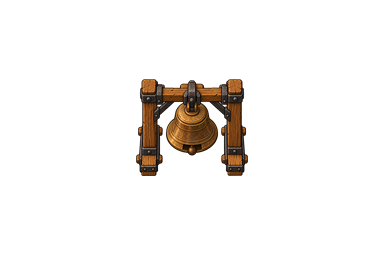
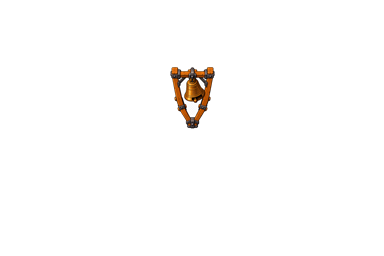
Props.

Changed region(s): [[0.3438, 0.25, 0.6562, 0.6875]]

diff --git a/environments/three_branches/renderer/props-layer.ts b/environments/three_branches/renderer/props-layer.ts
@@ -4,7 +4,7 @@ import { THREE_BRANCHES_ASSET_CATALOG } from './assets.js'
 import { emissiveSpec, hasPropEffect, propEffectFrames, propEffectSpec } from './effects.js'
 import { CATALOG } from './overlay.js'
 import { HEARTHSIDE_STYLE, PALETTE } from './presentation.js'
-import { isShippedPropType, propTreatment, sceneryFrame } from './props-art.js'
+import { isShippedPropType, propFoundationFrame, propTreatment, sceneryFrame } from './props-art.js'
 import { frameRectangle } from './tint.js'
 
 import type { FrameScene, StaticDrawable, StaticScene } from './types.js'
@@ -12,6 +12,7 @@ import type { FrameScene, StaticDrawable, StaticScene } from './types.js'
 const PROP_SCALE = 0.14
 const SCENERY_SCALE = 0.25
 const EFFECT_SCALE = 0.25
+const FIXED_MONUMENT_TYPES = new Set(['pump', 'bell'])
 
 /** Pages that become artwork for props, scenery, and their effects. */
 export interface PropAtlasTextures {
@@ -40,6 +41,7 @@ interface PropNode {
   root: Container
   fallback: Graphics
   shadow: Sprite
+  foundation: Sprite
   still: Sprite
   effect: Sprite
   emissive: Sprite
@@ -77,7 +79,12 @@ export function createPropLayer(
   for (const item of scene.props) {
     const node = createPropNode(item)
     nodes.set(item.id, node)
-    propLayer.addChild(node.root)
+    if (isFixedMonument(item)) {
+      upperLayer.addChild(node.root)
+      node.shadow.position.set(centerX(item), centerY(item))
+      node.foundation.position.set(centerX(item), centerY(item))
+      propLayer.addChild(node.shadow, node.foundation)
+    } else propLayer.addChild(node.root)
     upperLayer.addChild(node.effect)
     emissiveLayer.addChild(node.emissive)
   }
@@ -92,6 +99,9 @@ export function createPropLayer(
     node.fallback.visible = !shipped
     node.shadow.visible = shipped
     node.shadow.texture = shipped ? texture(art.effects, 'characterShadow') : Texture.EMPTY
+    const foundationFrame = propFoundationFrame(node.item.type)
+    node.foundation.visible = shipped && foundationFrame !== null
+    node.foundation.texture = foundationFrame === null ? Texture.EMPTY : texture(art.props, foundationFrame)
     node.still.visible = shipped
     node.still.texture = shipped ? texture(art.props, propTreatment(node.item.type, state).frame) : Texture.EMPTY
   }
@@ -117,7 +127,7 @@ export function createPropLayer(
       const tick = typeof value === 'number' ? value : value.presentationTick
       let active = false
       for (const node of nodes.values()) {
-        node.root.rotation = facing(node.item.facing)
+        node.root.rotation = visualFacing(node.item)
         if (!isShippedPropType(node.item.type)) {
           node.effect.visible = false
           node.emissive.visible = false
@@ -134,8 +144,8 @@ export function createPropLayer(
           node.effect.tint = HEARTHSIDE_STYLE.palette[effect.tint]
           node.effect.alpha = effect.alpha
           node.effect.scale.set(EFFECT_SCALE * effect.scale)
-          node.effect.position.set(centerX(node.item), centerY(node.item) + effect.offsetY)
-          node.effect.rotation = facing(node.item.facing) + effect.rotation
+          node.effect.position.set(centerX(node.item) + effect.offsetX, centerY(node.item) + effect.offsetY)
+          node.effect.rotation = visualFacing(node.item) + effect.rotation
         }
         if (emissive !== null) {
           node.emissive.texture = texture(art.effects, emissive.frame)
@@ -143,7 +153,7 @@ export function createPropLayer(
           node.emissive.alpha = emissive.alpha
           node.emissive.scale.set(EFFECT_SCALE * emissive.scale)
           node.emissive.position.set(centerX(node.item), centerY(node.item))
-          node.emissive.rotation = facing(node.item.facing)
+          node.emissive.rotation = visualFacing(node.item)
         }
       }
       return active
@@ -155,7 +165,7 @@ export function createPropLayer(
       if (item === undefined) return
       const stroke = { color: HEARTHSIDE_STYLE.palette.gilt, width: 2 }
       if (item.shape === 'circle') {
-        highlightNode.circle(centerX(item), centerY(item), Math.min(item.rect.width, item.rect.height) / 2 + 2).stroke(stroke)
+        highlightNode.circle(centerX(item), centerY(item), (Math.min(item.rect.width, item.rect.height) / 2) * item.collisionScale + 2).stroke(stroke)
       } else {
         highlightNode.rect(item.rect.x - 2, item.rect.y - 2, item.rect.width + 4, item.rect.height + 4).stroke(stroke)
       }
@@ -173,16 +183,21 @@ function createSceneryNode(item: StaticDrawable): Container {
 function createPropNode(item: StaticDrawable): PropNode {
   const root = new Container({ label: `prop:${item.id}` })
   root.position.set(centerX(item), centerY(item))
-  root.rotation = facing(item.facing)
+  root.rotation = visualFacing(item)
   const shadow = propShadow(item)
   const fallbackNode = fallback(item, true)
+  const foundation = propSprite('prop-foundation', Texture.EMPTY)
+  foundation.visible = false
   const still = propSprite('prop-still', Texture.EMPTY)
-  root.addChild(shadow, fallbackNode, still)
+  if (!isFixedMonument(item)) root.addChild(shadow)
+  root.addChild(fallbackNode, still)
   const effect = sprite(`prop-effect:${item.id}`, Texture.EMPTY, EFFECT_SCALE)
   const emissive = sprite(`prop-emissive:${item.id}`, Texture.EMPTY, EFFECT_SCALE)
+  effect.rotation = visualFacing(item)
+  emissive.rotation = visualFacing(item)
   effect.visible = false
   emissive.visible = false
-  return { item, root, fallback: fallbackNode, shadow, still, effect, emissive, state: null }
+  return { item, root, fallback: fallbackNode, shadow, foundation, still, effect, emissive, state: null }
 }
 
 function installScenery(layer: Container, item: StaticDrawable, art: PropArt): void {
@@ -209,7 +224,8 @@ function fallback(item: StaticDrawable, interactive: boolean): Graphics {
 function propShadow(item: StaticDrawable): Sprite {
   const shadow = sprite('prop-contact-shadow', Texture.EMPTY, 1)
   const { width, height } = localFootprint(item)
-  shadow.scale.set((width * 0.9) / 192, (height * 0.6) / 128)
+  const collisionScale = isFixedMonument(item) ? item.collisionScale : 1
+  shadow.scale.set((width * collisionScale * 0.9) / 192, (height * collisionScale * 0.6) / 128)
   shadow.tint = HEARTHSIDE_STYLE.palette.backdrop
   shadow.alpha = 0.25
   shadow.visible = false
@@ -236,6 +252,8 @@ function propSprite(label: string, frame: Texture): Sprite {
 
 function centerX(item: StaticDrawable): number { return item.rect.x + item.rect.width / 2 }
 function centerY(item: StaticDrawable): number { return item.rect.y + item.rect.height / 2 }
+function isFixedMonument(item: StaticDrawable): boolean { return FIXED_MONUMENT_TYPES.has(item.type) }
+function visualFacing(item: StaticDrawable): number { return isFixedMonument(item) ? 0 : facing(item.facing) }
 function facing(value: string | undefined): number {
   return ({ north: 0, east: Math.PI / 2, south: Math.PI, west: -Math.PI / 2 } as Record<string, number>)[value ?? 'north'] ?? 0
 }
@@ -265,6 +283,8 @@ function preflightArt(art: PropArt): void {
   }
   for (const prop of CATALOG.props) {
     if (!isShippedPropType(prop.token)) continue
+    const foundationFrame = propFoundationFrame(prop.token)
+    if (foundationFrame !== null) texture(art.props, foundationFrame)
     for (const state of prop.states) {
       texture(art.props, propTreatment(prop.token, state).frame)
       for (const frame of propEffectFrames(prop.token, state)) texture(art.effects, frame)

diff --git a/environments/three_branches/renderer/effects.ts b/environments/three_branches/renderer/effects.ts
@@ -8,6 +8,7 @@ export interface PropEffectSpec {
   tint: HearthsidePaletteKey
   alpha: number
   scale: number
+  offsetX: number
   offsetY: number
   rotation: number
   phase: number
@@ -49,15 +50,15 @@ export function propEffectSpec(
   const wave = Math.sin((frameClock / frames.length) * Math.PI * 2)
   switch (effect) {
     case 'lantern':
-      return { frame, tint: 'gilt', alpha: 0.7 + wave * 0.16, scale: 0.92 + wave * 0.08, offsetY: 0, rotation: 0, phase }
+      return { frame, tint: 'gilt', alpha: 0.7 + wave * 0.16, scale: 0.92 + wave * 0.08, offsetX: 0, offsetY: 0, rotation: 0, phase }
     case 'hearth':
-      return { frame, tint: 'cinnabar', alpha: 0.82 + wave * 0.12, scale: 0.9 + wave * 0.1, offsetY: 1 - wave, rotation: 0, phase }
+      return { frame, tint: 'cinnabar', alpha: 0.82 + wave * 0.12, scale: 0.9 + wave * 0.1, offsetX: 0, offsetY: 1 - wave, rotation: 0, phase }
     case 'shrine':
-      return { frame, tint: 'violet', alpha: 0.45 + wave * 0.16, scale: 0.86 + wave * 0.1, offsetY: -4 - wave * 3, rotation: wave * 0.08, phase }
+      return { frame, tint: 'violet', alpha: 0.45 + wave * 0.16, scale: 0.86 + wave * 0.1, offsetX: 0, offsetY: -4 - wave * 3, rotation: wave * 0.08, phase }
     case 'pump':
-      return { frame, tint: 'water', alpha: 0.72 + wave * 0.14, scale: 0.94 + wave * 0.06, offsetY: wave * 2, rotation: 0, phase }
+      return { frame, tint: 'water', alpha: 0.72 + wave * 0.14, scale: 0.94 + wave * 0.06, offsetX: 2.9, offsetY: -4 + wave * 2, rotation: 0, phase }
     case 'bell':
-      return { frame, tint: 'gilt', alpha: 0.58 + wave * 0.2, scale: 1, offsetY: 0, rotation: wave * 0.12, phase }
+      return { frame, tint: 'gilt', alpha: 0.58 + wave * 0.2, scale: 1, offsetX: 0, offsetY: -5, rotation: wave * 0.12, phase }
   }
   throw new Error('Three Branches prop effect is unsupported.')
 }

diff --git a/environments/three_branches/renderer/scene.ts b/environments/three_branches/renderer/scene.ts
@@ -60,18 +60,21 @@ export function buildStaticScene(village: VillageStatic): StaticScene {
     drawableFor(village, buildingByType, item, () => ({
       label: labelFor(item.type),
       shape: 'box',
+      collisionScale: 1,
     })),
   )
   const props = village.props.map((item) =>
     drawableFor(village, propByType, item, (kind) => ({
       label: labelFor(kind.activity),
       shape: shapeOf(kind.shape),
+      collisionScale: kind.collision_scale,
     })),
   )
   const scenery = village.scenery.map((item, index) =>
     drawableFor(village, sceneryByType, { ...item, id: `scenery:${index}` }, (kind) => ({
       label: labelFor(item.type),
       shape: shapeOf(kind.shape),
+      collisionScale: 1,
     })),
   )
   return {
@@ -170,7 +173,7 @@ function drawableFor<TKind extends CatalogFootprint>(
   village: VillageStatic,
   catalog: Readonly<Record<string, TKind>>,
   placement: DrawablePlacement,
-  describe: (kind: TKind) => Pick<StaticDrawable, 'label' | 'shape'>,
+  describe: (kind: TKind) => Pick<StaticDrawable, 'label' | 'shape' | 'collisionScale'>,
 ): StaticDrawable {
   const kind = catalog[placement.type]
   if (kind === undefined) throw new Error(`Unknown catalog type ${placement.type}.`)

diff --git a/environments/three_branches/renderer/assets.ts b/environments/three_branches/renderer/assets.ts
@@ -142,6 +142,7 @@ export const PROPS_ATLAS_FRAME_NAMES = [
   'pumpIdle',
   'bellRinging',
   'bellSilent',
+  'bellFoundation',
 ] as const
 
 export const SCENERY_ATLAS_FRAME_NAMES = ['pineA', 'pineB', 'pineC', 'marketCrate'] as const
@@ -236,7 +237,7 @@ export const THREE_BRANCHES_ASSET_CATALOG = [
     height: 1536,
     tintable: false,
     format: 'full-color',
-    consumer: 'complete interactive prop state stills, with separate effects and emissives',
+    consumer: 'complete interactive prop state stills and the fixed bell foundation, with separate effects and emissives',
     frames: {
       width: 384,
       height: 256,
@@ -362,6 +363,7 @@ function flatFramePaths(names: readonly string[]): readonly string[] {
 }
 
 function propsFramePath(name: string): string {
+  if (name === 'bellFoundation') return 'bell/foundation.png'
   for (const prop of catalogDocument.props) {
     const type = prop.token.replace(/_([a-z])/g, (_, letter: string) => letter.toUpperCase())
     const state = prop.states.find((value) => `${type}${value[0]?.toUpperCase()}${value.slice(1)}` === name)

diff --git a/environments/three_branches/renderer/props-art.ts b/environments/three_branches/renderer/props-art.ts
@@ -80,6 +80,11 @@ export function propTreatment(type: string, state: string): PropTreatment {
   return treatment
 }
 
+/** Resolve a state-independent foundation frame for a fixed monument. */
+export function propFoundationFrame(type: string): string | null {
+  return type === 'bell' ? 'bellFoundation' : null
+}
+
 /** Select one fixed scenery frame from a catalog type and stable placement id. */
 export function sceneryFrame(type: string, id: string): string {
   if (type === 'crate') return 'marketCrate'

diff --git a/environments/three_branches/renderer/collision.ts b/environments/three_branches/renderer/collision.ts
@@ -38,7 +38,7 @@ export function staticCollision(scene: StaticScene): readonly CollisionShape[] {
         id: item.id,
         kind: 'circle',
         center: { x: item.rect.x + item.rect.width / 2, y: item.rect.y + item.rect.height / 2 },
-        radius: Math.min(item.rect.width, item.rect.height) / 2,
+        radius: (Math.min(item.rect.width, item.rect.height) / 2) * item.collisionScale,
         label: item.label,
         group: 'object',
       })

diff --git a/environments/three_branches/renderer/types.ts b/environments/three_branches/renderer/types.ts
@@ -150,6 +150,8 @@ export interface StaticDrawable {
   label: string
   /** Catalog collision shape. */
   shape: 'box' | 'circle'
+  /** Catalog collision diameter fraction for circular props. */
+  collisionScale: number
   /** Config-derived renderer extent. */
   rect: WorldRect
   /** Optional cardinal presentation direction. */

diff --git a/environments/three_branches/catalog.py b/environments/three_branches/catalog.py
@@ -5,11 +5,12 @@ from __future__ import annotations
 import json
 from dataclasses import dataclass
 from importlib import resources
+from math import isfinite
 from types import MappingProxyType
 from typing import Any
 
 from .rules import GROUND_BY_CODE
-from .validation import mapping, positive_int, token
+from .validation import mapping, positive_int, positive_number, token
 
 _SHAPES = {"box", "circle"}
 _MOVING_TRANSITIONS = {"toggle", "occupancy", "timed"}
@@ -32,6 +33,7 @@ class PropType:
     width: int
     height: int
     shape: str
+    collision_scale: float
     activity: str
     states: tuple[str, ...]
     start: str
@@ -103,6 +105,7 @@ def load(data: Any) -> Catalog:
             positive_int(entry["width"], "catalog.prop.width"),
             positive_int(entry["height"], "catalog.prop.height"),
             entry["shape"],
+            _collision_scale(entry["collision_scale"]),
             token(entry["activity"], "catalog.prop.activity"),
             tuple(token(state, "catalog.prop.states", max_length=9) for state in entry["states"]),
             token(entry["start"], "catalog.prop.start", max_length=9),
@@ -118,6 +121,7 @@ def load(data: Any) -> Catalog:
                     "width",
                     "height",
                     "shape",
+                    "collision_scale",
                     "activity",
                     "states",
                     "start",
@@ -168,6 +172,13 @@ def load(data: Any) -> Catalog:
     if not {"i", "d", "x"} <= set(GROUND_BY_CODE):
         raise ValueError("catalog needs the interior, doorway, and wall ground codes from the rules")
     return Catalog(buildings, props, scenery)
+
+
+def _collision_scale(value: Any) -> float:
+    scale = positive_number(value, "catalog.prop.collision_scale")
+    if not isfinite(scale) or scale > 1:
+        raise ValueError("catalog.prop.collision_scale must be finite and no greater than one")
+    return scale
 
 
 CATALOG = load(json.loads(resources.files(__package__).joinpath("catalog.json").read_text(encoding="utf-8")))

diff --git a/environments/three_branches/template/sandbox/village/_model.py b/environments/three_branches/template/sandbox/village/_model.py
@@ -173,7 +173,11 @@ def _shape(item: PlacementFingerprint, kind: Mapping[str, object], cell_size: fl
     width, height = float(kind["width"]), float(kind["height"])
     if item[3]:
         width, height = height, width
-    return Shape(str(kind["shape"]), item[1] * cell_size, item[2] * cell_size, width, height)
+    x, y = item[1] * cell_size, item[2] * cell_size
+    if kind["shape"] != "circle":
+        return Shape("box", x, y, width, height)
+    diameter = min(width, height) * float(kind.get("collision_scale", 1.0))
+    return Shape("circle", x + (width - diameter) / 2, y + (height - diameter) / 2, diameter, diameter)
 
 
 def _collision_buckets(

diff --git a/environments/three_branches/layout.py b/environments/three_branches/layout.py
@@ -151,7 +151,8 @@ class Layout:
         x, y = item.cell
         if source.shape == "box":
             return Rect(float(x), float(y), float(width), float(height))
-        return Circle(x + width / 2, y + height / 2, min(width, height) / 2)
+        scale = source.collision_scale if isinstance(item, PlacedProp) else 1.0
+        return Circle(x + width / 2, y + height / 2, min(width, height) / 2 * scale)
 
     def doorway(self, building_id: str) -> tuple[Cell, ...]:
         building = next((item for item in self.buildings if item.id == building_id), None)

diff --git a/environments/three_branches/generation/accessories.py b/environments/three_branches/generation/accessories.py
@@ -500,7 +500,8 @@ def _shape_for(item: PlacedProp | Scenery) -> Rect | Circle:
     x, y = item.cell
     if source.shape == "box":
         return Rect(float(x), float(y), float(width), float(height))
-    return Circle(x + width / 2, y + height / 2, min(width, height) / 2)
+    scale = source.collision_scale if isinstance(item, PlacedProp) else 1.0
+    return Circle(x + width / 2, y + height / 2, min(width, height) / 2 * scale)
 
 
 def _touches(shape: Rect | Circle, point: Point, radius: float) -> bool:

diff --git a/plans/days-at-three-branches/stages/5-1-art-style.md b/plans/days-at-three-branches/stages/5-1-art-style.md
@@ -75,7 +75,7 @@ Build characters from shared north-facing grayscale-alpha masks in a conventiona
 
 ![Approved top-down shooter direction](../art/top-down-shooter-direction.png)
 
-Every catalog state has one distinct complete north-facing still across its catalog footprint, turned to its facing. Each 96 by 64 runtime canvas centers that footprint with at least two transparent pixels at its edge. The atlas leaves its unnamed trailing cells transparent. Drive the result only from prop id, type, state, facing, and tick.
+Every catalog state has one distinct complete north-facing still across its catalog footprint, turned to its facing. Each 384 by 256 runtime canvas centers that footprint with at least two transparent pixels at its edge. The atlas leaves its unnamed trailing cells transparent. The pump is a fixed north-facing monument: its circular footing stays centered on the placement cell while the mechanism may extend north beyond its smaller collision circle. The bell has a state-independent circular stone foundation below characters and a fixed-north upper assembly above them. Drive the result only from prop id, type, state, facing, and tick.
 
 | Prop | Still treatment |
 | --- | --- |
@@ -87,8 +87,8 @@ Every catalog state has one distinct complete north-facing still across its cata
 | Garden plot | `tended` has ordered dark furrows and young green rows; `overgrown` has irregular pine-green growth that does not hide the fence. |
 | Inn hearth | `lit` has a gilt-and-cinnabar coal core; `unlit` has cool ash and stacked dark wood. |
 | Repair bench | `busy` has a laid-out tool and bright workpiece; `idle` has a cleared top and stored tools. |
-| Well pump | `flowing` has a visible pale water stream and wet basin mark; `idle` has a dry basin and upright handle. |
-| Beacon bell | `ringing` has a tilted bell, exposed clapper, and ringing lines; `silent` hangs plumb without those marks. |
+| Well pump | Its round well curb is centered on the collision circle and its fixed-north mechanical assembly extends beyond it. `flowing` has a visible pale water stream and wet basin mark; `idle` has a dry basin and upright handle. |
+| Beacon bell | Its state-independent filled circular stone foundation is centered on the collision circle below characters. Its fixed-north timber bell upper assembly extends beyond it above characters. The registered `ringing` upper has a tilted bell and exposed clapper, while `silent` hangs plumb. Manual owner review remains pending. |
 
 Animate only lantern flicker, hearth fire, shrine incense, pump water, and bell swing. Each animation is a seek-safe function of fractional playback tick, prop id, current state, and a stable hash phase. A new prop type needs no renderer change only when it reuses a placement token, art treatment, and transition mechanism.
 
@@ -119,7 +119,7 @@ The separate 320 by 180 thumbnail is a final Hearthside Ink image, not a screens
 
 ### Collision truth
 
-[ruleset.md](../ruleset.md) fixes impassable ground, catalog collision shapes, counts, states, transitions, and prop reach. The collision overlay remains exact and authoritative. Natural surface contours may move by at most 0.6 cell perpendicular to the source edge while preserving the 0.45-cell corridor; they may cross cell centres. Walls, doorways, catalog shapes, the collision grid, generation, and recordings remain exact. Water and walls read solid, doorway ground open, and round catalog shapes read round, so walkers visibly slide around the pump, hearth, bell, lantern, and pine. Non-solid shadows, glow, smoke, and other effects may extend outside a shape. Art needing another extent changes the ground table or catalog and its generator, fixture, overlay, and tests together.
+[ruleset.md](../ruleset.md) fixes impassable ground, catalog collision shapes, counts, states, transitions, and prop reach. The collision overlay remains exact and authoritative. Natural surface contours may move by at most 0.6 cell perpendicular to the source edge while preserving the 0.45-cell corridor; they may cross cell centres. Walls, doorways, catalog shapes, the collision grid, generation, and recordings remain exact. Water and walls read solid, doorway ground open, and round catalog shapes read round, so walkers visibly slide around the pump, hearth, bell, lantern, and pine. The pump and bell use a 0.4-cell centered collision diameter inside their one-cell placement footprints. Their upper mechanisms, shadows, glow, smoke, and other non-solid effects may extend outside that shape. Art needing another extent changes the ground table or catalog and its generator, fixture, overlay, and tests together.
 
 ## Correctness, review, and configuration
 
@@ -174,13 +174,13 @@ Pending. The owner reviews the cast in watch sessions and records the date here.
 
 ## Props, scenery, and effects
 
-`props-art.ts` resolves every catalog type and state to one complete north-facing state still. Each 384 by 256 canvas centers its collision footprint, holds at least two transparent pixels at the edge, and draws at fixed 0.125 scale inside a facing container. `SHIPPED_PROP_TYPES` enables all ten complete prop still types. `effects.ts` holds the five sustained animations and emissive specs as pure functions of fractional tick, prop id, state, and stable hash phase. Effect configuration objects own their frames and `frameRate`. `props-layer.ts` keeps scenery unchanged, validates the shipped still and needed accent frames before installation, and installs art atomically.
+`props-art.ts` resolves every catalog type and state to one complete north-facing state still. Each 384 by 256 canvas centers its collision footprint, holds at least two transparent pixels at the edge, and draws at the owner-calibrated fixed scale inside a facing container. `SHIPPED_PROP_TYPES` enables all ten complete prop still types. The pump ignores placement facing, keeps its centered shadow below characters, and draws its complete still and effects in the upper character layer. The bell adds its state-independent foundation to the prop layer below characters, while its fixed-north upper still and effect stay in the upper character layer. `effects.ts` holds the five sustained animations and emissive specs as pure functions of fractional tick, prop id, state, and stable hash phase. Effect configuration objects own their frames and `frameRate`. `props-layer.ts` keeps scenery unchanged, validates the shipped still and needed accent frames before installation, and installs art atomically.
 
 After visual acceptance, tests cover every catalog state mapping, enabled-type preflight, excluded-type fallback, fixed scaling, centered placement, facing rotation, and deterministic animation. The owner then reviews every state in [the treatment table](#characters-props-and-dressing), the pines and crates, and the emissives.
 
 ### Prop sign-off
 
-The owner approved all ten complete prop still types on 2026-08-15. The accepted still art remains approved. The next manual owner review covers the native-density correction, slower expanded animations, characters at 85% scale, props at 115% scale, and subtle prop contact shadows. State shadows may extend beyond collision, while gameplay and collision remain exact. Review the accepted slice by toggling `stall_0` and `lantern_0`, tending `plot_0`, waiting 600 ticks for its return, inspecting fitted, middle, and close zoom with collision overlays, and confirming north and south stall rotation. The review accepts no fragments, artwork inside each footprint, clear state changes, correctly layered lantern glow, and the pending calibration.
+The owner approved all ten complete prop still types on 2026-08-15. The accepted still art remains approved. The next manual owner review covers the native-density correction, slower expanded animations, the owner-calibrated character and prop sizes, subtle prop contact shadows, and the revised fixed-north pump and bell. Confirm that each monument's collision circle follows its centered round footing, its upper mechanism occludes characters, and the bell reads as a solid civic plinth rather than a well. State shadows and the two monument mechanisms may extend beyond collision, while gameplay and collision remain exact. Review the accepted slice by toggling `stall_0` and `lantern_0`, tending `plot_0`, waiting 600 ticks for its return, inspecting fitted, middle, and close zoom with collision overlays, and confirming north and south stall rotation. The review accepts no fragments, clear state changes, correctly layered accents, exact collision registration, and the pending calibration.
 
 ## Roofs
 
